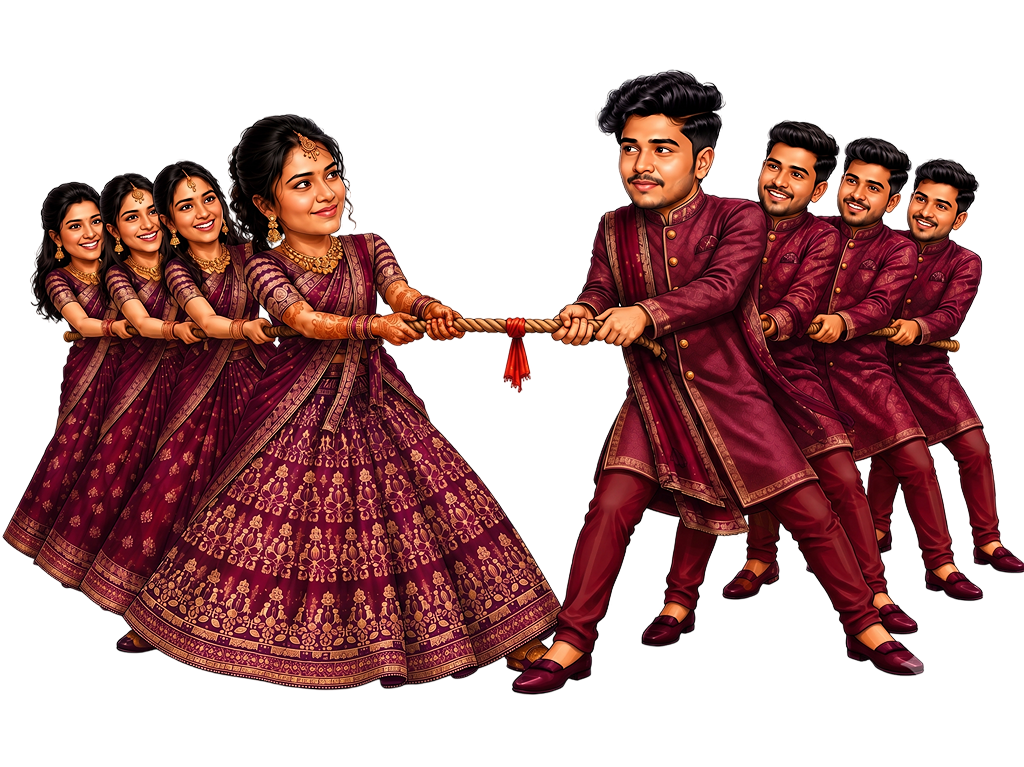
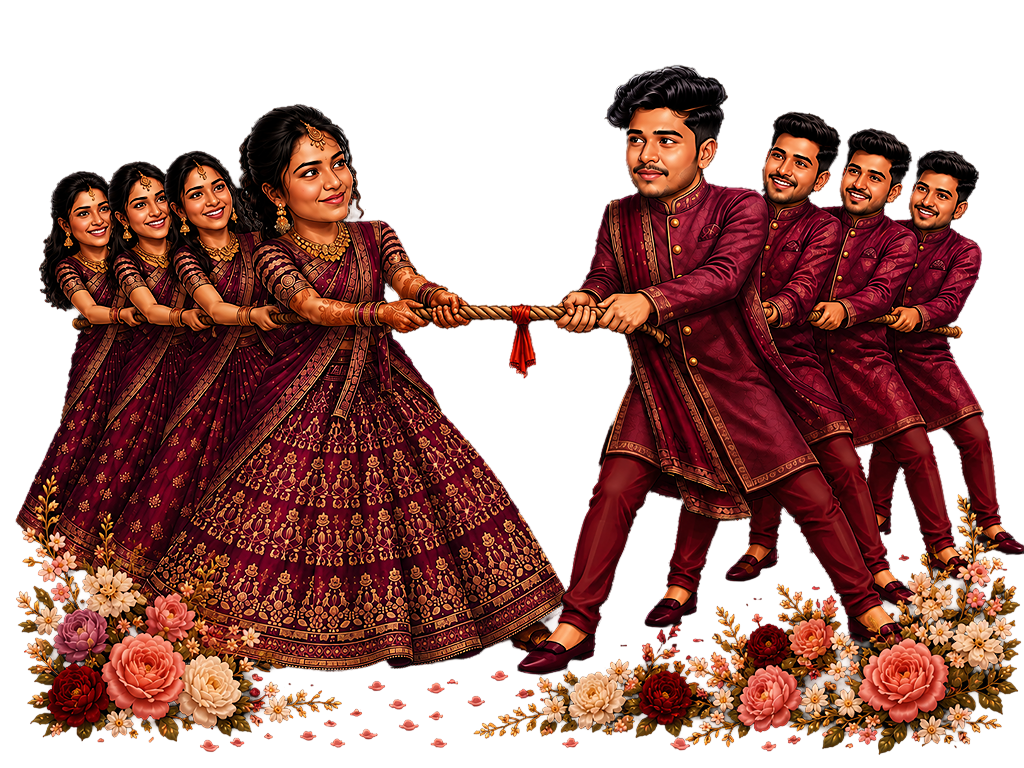
Images changes

diff --git a/src/components/Blessings.jsx b/src/components/Blessings.jsx
@@ -30,7 +30,7 @@ function Petal({ style, delay, size = 22 }) {
 
 export default function Blessings({ sectionRef }) {
   return (
-    <Section id="blessings" ref={sectionRef}>
+    <Section id="blessings" ref={sectionRef} contentClassName="blessings-content">
       <GoldParticles count={16} />
 
       {[0, 1, 2, 3, 4, 5].map((i) => (
@@ -50,12 +50,17 @@ export default function Blessings({ sectionRef }) {
         <TempleLamp size={64} />
       </div>
 
-      <motion.div
-        initial={{ opacity: 0, y: 26 }}
-        whileInView={{ opacity: 1, y: 0 }}
-        viewport={{ once: true, amount: 0.4 }}
-        transition={{ duration: 0.95, ease: [0.2, 0.7, 0.3, 1] }}
-        className="relative z-10 mx-auto max-w-3xl"
+      <div className="blessings-layout">
+        <div className="blessings-parent-column blessings-parent-left">
+          <img src="/parents-1.png" alt="Groom's parents" className="blessings-parent" />
+        </div>
+
+        <motion.div
+          initial={{ opacity: 0, y: 26 }}
+          whileInView={{ opacity: 1, y: 0 }}
+          viewport={{ once: true, amount: 0.4 }}
+          transition={{ duration: 0.95, ease: [0.2, 0.7, 0.3, 1] }}
+          className="blessings-card relative z-10 mx-auto max-w-3xl"
       >
         <div className="card-royal relative px-8 py-12 text-center sm:px-14 sm:py-16">
           <span className="pointer-events-none absolute left-3 top-3 text-gold/40">
@@ -94,8 +99,13 @@ export default function Blessings({ sectionRef }) {
               {wedding.bride.parents && <span>{wedding.bride.parents}</span>}
             </div>
           )}
+          </div>
+        </motion.div>
+
+        <div className="blessings-parent-column blessings-parent-right">
+          <img src="/parents-2.png" alt="Bride's parents" className="blessings-parent" />
         </div>
-      </motion.div>
+      </div>
     </Section>
   );
 }

diff --git a/src/index.css b/src/index.css
@@ -419,3 +419,49 @@
 .swiper-slide {
   height: auto;
 }
+
+.blessings-content {
+    max-width: none !important;
+  }
+
+  .blessings-layout {
+    width: 100%;
+  }
+
+  .blessings-parent-column,
+  .blessings-parent {
+    display: none;
+  }
+
+  @media (min-width: 1280px) {
+    .blessings-layout {
+      display: grid;
+      grid-template-columns: minmax(10rem, 1fr) minmax(42rem, 60rem) minmax(10rem, 1fr);
+      align-items: end;
+      column-gap: 2rem;
+      width: min(100%, 120rem);
+      margin-inline: auto;
+    }
+
+    .blessings-parent-column {
+      display: flex;
+      align-items: end;
+      justify-content: center;
+      min-width: 0;
+      height: 100%;
+    }
+
+    .blessings-parent {
+      display: block;
+      width: min(100%, 19rem);
+      max-height: min(74vh, 47rem);
+      object-fit: contain;
+      object-position: bottom center;
+      filter: drop-shadow(0 18px 20px rgba(0, 0, 0, 0.38));
+    }
+
+    .blessings-card {
+      grid-column: 2;
+      width: 100%;
+    }
+  }
